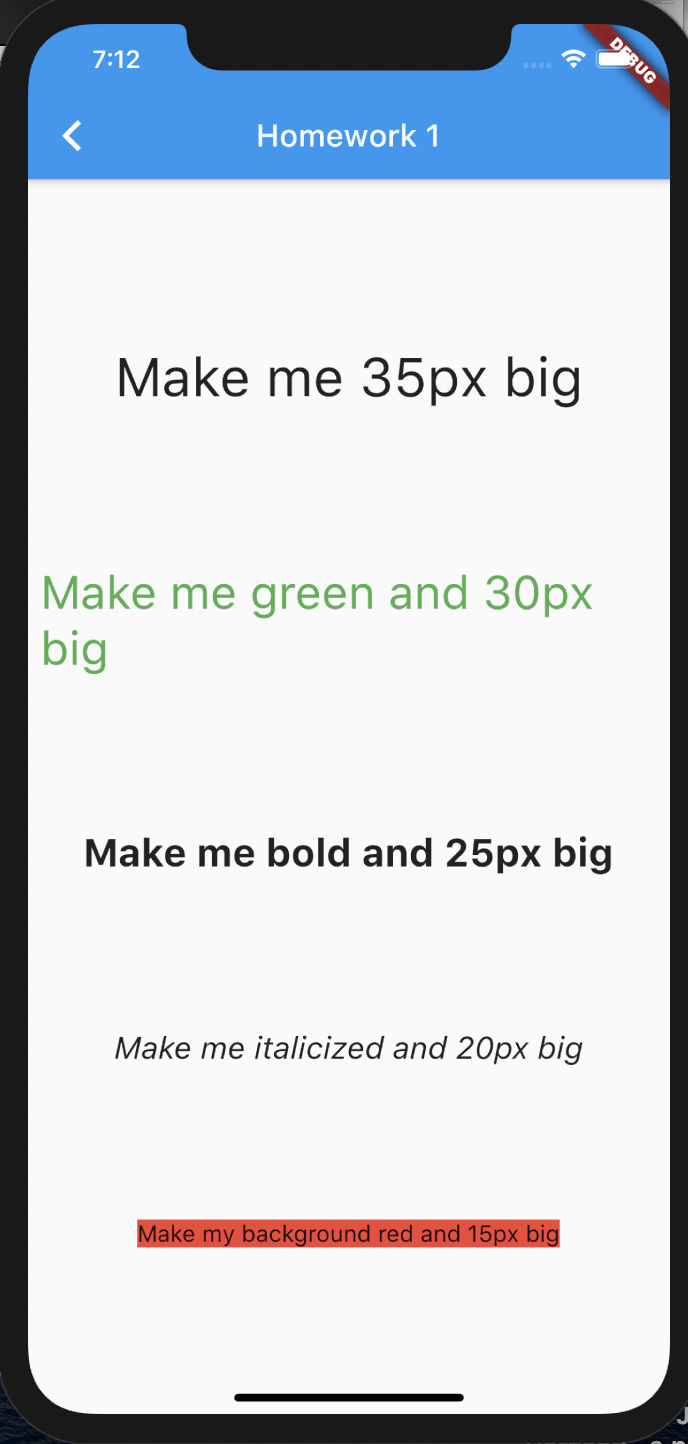
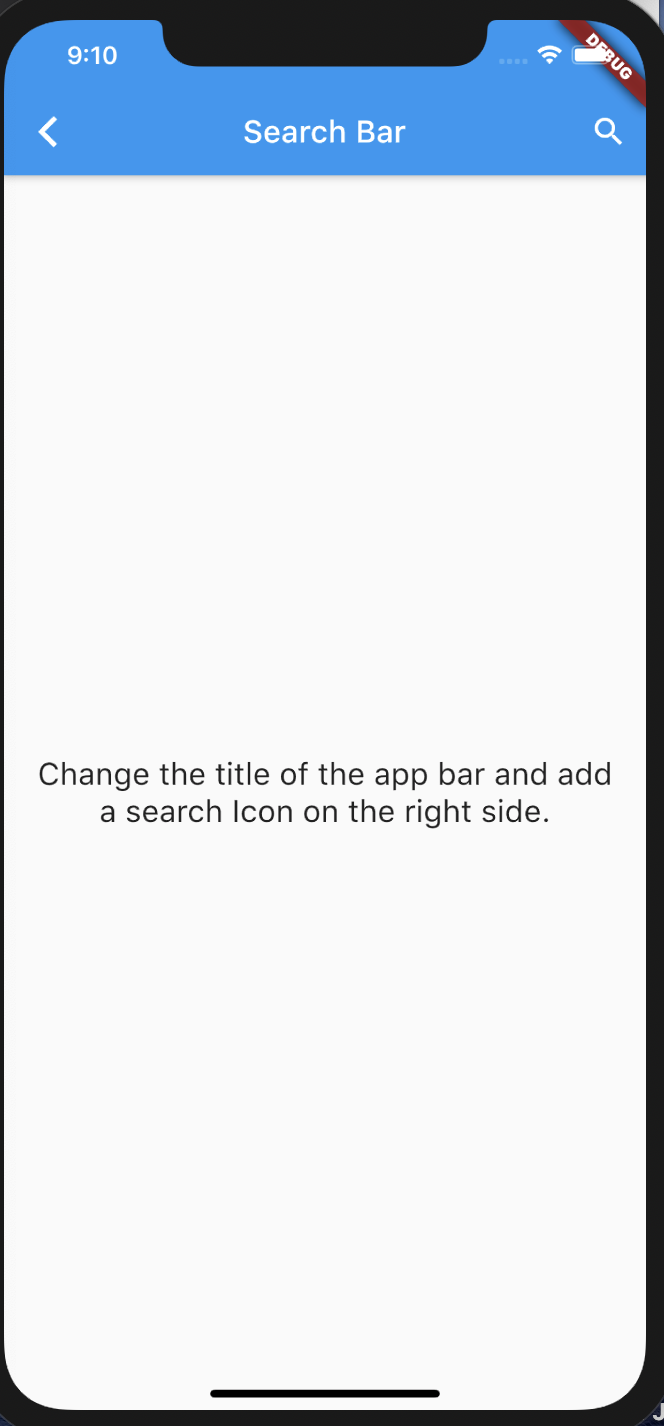
added scaffold/appbar question

diff --git a/lib/questions/question2.dart b/lib/questions/question2.dart
@@ -16,7 +16,7 @@ class Question2 extends StatelessWidget {
                 Navigator.pop(context);
               },
             ),
-            title: Text('Icons'),
+            title: Text('Texts'),
           ),
           body: Center(
             child: Padding(
@@ -24,61 +24,29 @@ class Question2 extends StatelessWidget {
               child: Column(
                   mainAxisAlignment: MainAxisAlignment.spaceEvenly,
                   children: <Widget>[
-                    Row(
-                      mainAxisAlignment: MainAxisAlignment.spaceEvenly,
-                      children: <Widget>[
-                        Icon(
-                          Icons.favorite_border,
-                          size: 40,
-                        ),
-                        Icon(
-                          Icons.favorite,
-                          size: 40,
-                          color: Colors.red,  )
-                      ],
+                    Text(
+                      'Make me 35px big',
+                      style: TextStyle(
+                        fontSize: 35,
+                      ),
                     ),
-                    Row(
-                      mainAxisAlignment: MainAxisAlignment.spaceEvenly,
-                      children: <Widget>[
-                        Icon(
-                          Icons.thumb_down,
-                          size: 40,
-                          color: Colors.grey),
-                        Icon(
-                          Icons.thumb_up,
-                          size: 40,
-                          color: Colors.blue)
-                      ],
-                    ),
-  
-                    Row(
-                      mainAxisAlignment: MainAxisAlignment.spaceEvenly,
-                      children: <Widget>[
-                        Icon(
-                          Icons.arrow_downward,
-                          size: 40,
-                          color: Colors.purple
-                        ),
-                        Icon(
-                          Icons.arrow_upward,
-                          size: 40,
-                          color: Colors.deepOrange
-                        )
-                      ],
-                    ),
-                    Row(
-                      mainAxisAlignment: MainAxisAlignment.spaceEvenly,
-                      children: <Widget>[
-                        Icon(
-                          Icons.send,
-                          size: 40,
-                          color: Colors.red),
-                        Icon(
-                          Icons.mode_comment,
-                          size: 40,
-                          color: Colors.lightBlue)
-                      ],
-                    ),
+                    Text('Make me green and 30px big',
+                        style: TextStyle(
+                          fontSize: 30,
+                          color: Colors.green,
+                        )),
+                    Text('Make me bold and 25px big',
+                        style: TextStyle(
+                          fontSize: 25,
+                          fontWeight: FontWeight.bold)),
+                    Text('Make me italicized and 20px big',
+                        style: TextStyle(
+                          fontSize: 20,
+                          fontStyle: FontStyle.italic)),
+                    Text('Make my background red and 15px big',
+                        style: TextStyle(
+                          fontSize: 15,
+                          backgroundColor: Colors.red))
                   ]),
             ),
           )),

diff --git a/lib/questions/question3.dart b/lib/questions/question3.dart
@@ -16,34 +16,72 @@ class Question3 extends StatelessWidget {
                 Navigator.pop(context);
               },
             ),
-            title: Text('Buttons'),
+            title: Text('Icons'),
           ),
-           floatingActionButton: FloatingActionButton(
-             child: Text("FAB"),
-             onPressed: (){},
-             backgroundColor: Colors.green,
-            ),
           body: Center(
             child: Padding(
               padding: const EdgeInsets.all(8.0),
               child: Column(
                   mainAxisAlignment: MainAxisAlignment.spaceEvenly,
                   children: <Widget>[
-                    IconButton(
-                      icon: Icon(Icons.bluetooth, size: 40, color: Colors.blue,),
-                    
-                      onPressed: () {},
+                    Row(
+                      mainAxisAlignment: MainAxisAlignment.spaceEvenly,
+                      children: <Widget>[
+                        Icon(
+                          Icons.favorite_border,
+                          size: 40,
+                        ),
+                        Icon(
+                          Icons.favorite,
+                          size: 40,
+                          color: Colors.red,  )
+                      ],
                     ),
-                    RaisedButton(
-                      child: Text("Raised Button"),
-                     onPressed: () {}),
-                    FlatButton(
-                      onPressed: (){}, 
-                      child: Text("Flat Button"))
+                    Row(
+                      mainAxisAlignment: MainAxisAlignment.spaceEvenly,
+                      children: <Widget>[
+                        Icon(
+                          Icons.thumb_down,
+                          size: 40,
+                          color: Colors.grey),
+                        Icon(
+                          Icons.thumb_up,
+                          size: 40,
+                          color: Colors.blue)
+                      ],
+                    ),
+  
+                    Row(
+                      mainAxisAlignment: MainAxisAlignment.spaceEvenly,
+                      children: <Widget>[
+                        Icon(
+                          Icons.arrow_downward,
+                          size: 40,
+                          color: Colors.purple
+                        ),
+                        Icon(
+                          Icons.arrow_upward,
+                          size: 40,
+                          color: Colors.deepOrange
+                        )
+                      ],
+                    ),
+                    Row(
+                      mainAxisAlignment: MainAxisAlignment.spaceEvenly,
+                      children: <Widget>[
+                        Icon(
+                          Icons.send,
+                          size: 40,
+                          color: Colors.red),
+                        Icon(
+                          Icons.mode_comment,
+                          size: 40,
+                          color: Colors.lightBlue)
+                      ],
+                    ),
                   ]),
             ),
           )),
-          
     );
   }
 }

diff --git a/lib/questions/question1.dart b/lib/questions/question1.dart
@@ -16,39 +16,28 @@ class Question1 extends StatelessWidget {
                 Navigator.pop(context);
               },
             ),
-            title: Text('Texts'),
+            title: Text('Search Bar'),
+            actions: <Widget>[
+              IconButton(
+                icon: Icon(
+                  Icons.search,
+                  color: Colors.white,
+                  )
+              ),
+            ],
           ),
           body: Center(
             child: Padding(
-              padding: const EdgeInsets.all(8.0),
-              child: Column(
-                  mainAxisAlignment: MainAxisAlignment.spaceEvenly,
-                  children: <Widget>[
-                    Text(
-                      'Make me 35px big',
-                      style: TextStyle(
-                        fontSize: 35,
-                      ),
-                    ),
-                    Text('Make me green and 30px big',
-                        style: TextStyle(
-                          fontSize: 30,
-                          color: Colors.green,
-                        )),
-                    Text('Make me bold and 25px big',
-                        style: TextStyle(
-                          fontSize: 25,
-                          fontWeight: FontWeight.bold)),
-                    Text('Make me italicized and 20px big',
-                        style: TextStyle(
-                          fontSize: 20,
-                          fontStyle: FontStyle.italic)),
-                    Text('Make my background red and 15px big',
-                        style: TextStyle(
-                          fontSize: 15,
-                          backgroundColor: Colors.red))
-                  ]),
-            ),
+              padding: const EdgeInsets.only(left: 20, right: 20),
+              child: Text(
+                'Change the title of the app bar and add a search Icon on the right side.',
+                textAlign: TextAlign.center,
+                style: TextStyle(
+                  fontSize: 20,
+
+                ),
+                ),
+            )
           )),
     );
   }

diff --git a/lib/main.dart b/lib/main.dart
@@ -2,6 +2,7 @@ import 'package:flutter/material.dart';
 import 'package:hw1/questions/question1.dart';
 import 'package:hw1/questions/question2.dart';
 import 'package:hw1/questions/question3.dart';
+import 'package:hw1/questions/question4.dart';
 
 void main() {
   runApp(MyApp());
@@ -25,8 +26,8 @@ class MainPage extends StatelessWidget {
         child: Column(
             mainAxisAlignment: MainAxisAlignment.center,
             children: <Widget>[
-              MaterialButton(
-                child: Text('Question 1'),
+              RaisedButton(
+                child: Text('Question 1: Scaffold/App Bar'),
                 onPressed: () {
                   Navigator.push(
                     context,
@@ -34,8 +35,8 @@ class MainPage extends StatelessWidget {
                   );
                 },
               ),
-              MaterialButton(
-                child: Text('Question 2'),
+              RaisedButton(
+                child: Text('Question 2: Texts'),
                 onPressed: () {
                   Navigator.push(
                     context,
@@ -43,12 +44,21 @@ class MainPage extends StatelessWidget {
                   );
                 },
               ),
-              MaterialButton(
-                child: Text('Question 3'),
+              RaisedButton(
+                child: Text('Question 3: Icons'),
                 onPressed: () {
                   Navigator.push(
                     context,
                     MaterialPageRoute(builder: (context) => Question3()),
+                  );
+                },
+              ),
+              RaisedButton(
+                child: Text('Question 4: Buttons'),
+                onPressed: () {
+                  Navigator.push(
+                    context,
+                    MaterialPageRoute(builder: (context) => Question4()),
                   );
                 },
               ),

diff --git a/lib/questions/question4.dart b/lib/questions/question4.dart
@@ -1,0 +1,49 @@
+import 'package:flutter/material.dart';
+
+class Question4 extends StatelessWidget {
+  // This widget is the root of your application.
+  @override
+  Widget build(BuildContext context) {
+    return MaterialApp(
+      home: Scaffold(
+          appBar: AppBar(
+            leading: IconButton(
+              icon: Icon(
+                Icons.arrow_back_ios,
+                color: Colors.white,
+              ),
+              onPressed: () {
+                Navigator.pop(context);
+              },
+            ),
+            title: Text('Buttons'),
+          ),
+           floatingActionButton: FloatingActionButton(
+             child: Text("FAB"),
+             onPressed: (){},
+             backgroundColor: Colors.green,
+            ),
+          body: Center(
+            child: Padding(
+              padding: const EdgeInsets.all(8.0),
+              child: Column(
+                  mainAxisAlignment: MainAxisAlignment.spaceEvenly,
+                  children: <Widget>[
+                    IconButton(
+                      icon: Icon(Icons.bluetooth, size: 40, color: Colors.blue,),
+                    
+                      onPressed: () {},
+                    ),
+                    RaisedButton(
+                      child: Text("Raised Button"),
+                     onPressed: () {}),
+                    FlatButton(
+                      onPressed: (){}, 
+                      child: Text("Flat Button"))
+                  ]),
+            ),
+          )),
+          
+    );
+  }
+}

diff --git a/README.md b/README.md
@@ -1,18 +1,24 @@
 # hw1
-
-## Question 1: Texts
-You will need to change font size, color, weight, style.
+## Question 1: Scaffold/App Bar
+A scaffold with a title has been provided all you need to do is change the title and add a search icon on the right side.
+(hint: look up the actions parameter for the AppBar)
+<br>
 <img src="https://github.com/bry02g/hw1_stateless_widgets/blob/master/screenshots/question1.png" width="40%">
+## Question 2: Texts
 
-## Question 2: Icons
-You will be styling and adding social media inspireded icons.
+You will need to change font size, color, weight, style.
+<br>
 <img src="https://github.com/bry02g/hw1_stateless_widgets/blob/master/screenshots/question2.png" width="40%">
 
-
-## Question 3: Buttons
+## Question 3: Icons
+You will be styling and adding social media inspireded icons.
+<br>
 <img src="https://github.com/bry02g/hw1_stateless_widgets/blob/master/screenshots/question3.png" width="40%">
 
-## Question 4: App Bar
+
+## Question 4: Buttons
+<br>
+<img src="https://github.com/bry02g/hw1_stateless_widgets/blob/master/screenshots/question4.png" width="40%">
 
 ## Question 5: Text Fields
 
